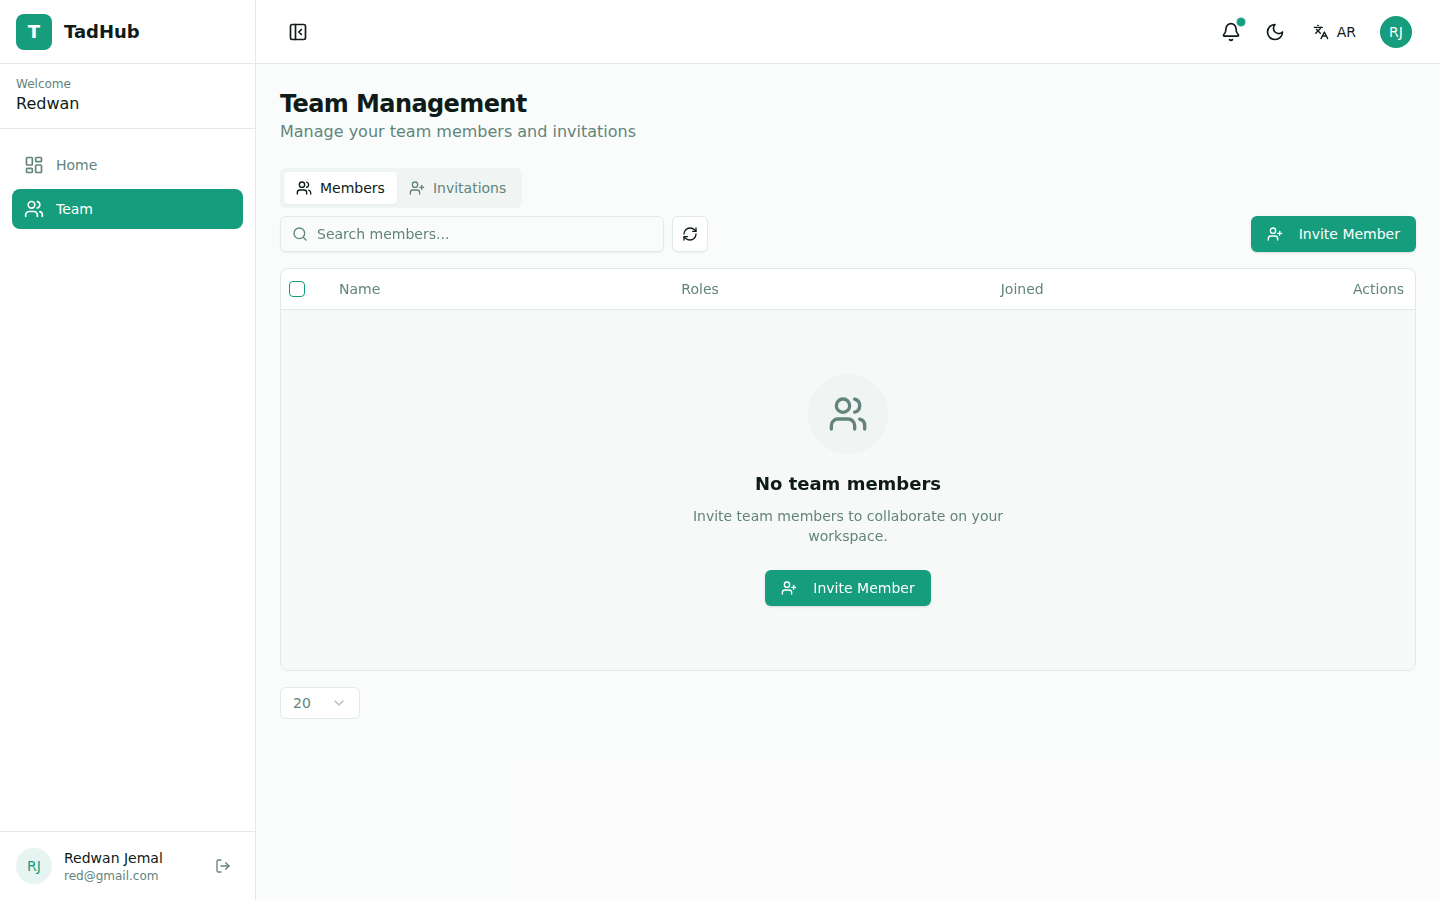
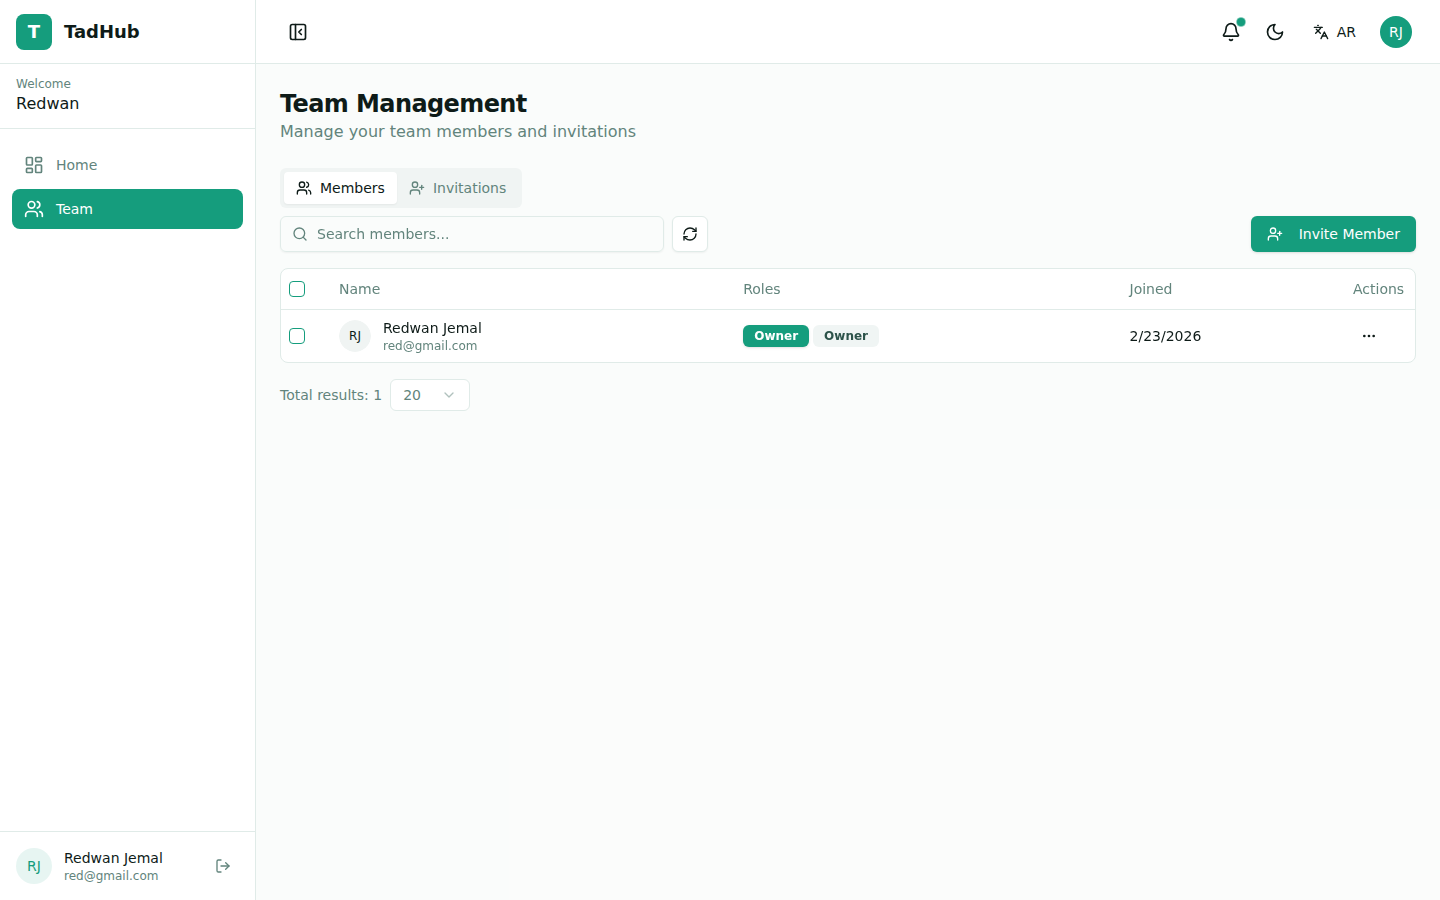
fix: resolve 403 errors and slow API in tenant permission system
- Fix Keycloak ID vs internal user ID mismatch in IsMemberAsync/IsOwnerAsync
  by adding ResolveInternalUserIdAsync to TenantService
- Add IgnoreQueryFilters() to all Role/UserRole queries to bypass global
  tenant filter when explicitly filtering by tenantId
- Add in-memory permission cache (ConcurrentDictionary) to bypass Redis
  NOAUTH timeouts, reducing API response from 13s to ~0.25s cached
- Update Redis configuration with resilient connection options
- Clean up verbose debug logging in auth handlers
- Update e2e screenshot wait logic and refresh screenshots

diff --git a/e2e/take-screenshots.ts b/e2e/take-screenshots.ts
@@ -73,7 +73,12 @@ async function main() {
     console.warn('  Team Management heading did not appear, continuing...');
   }
   // Wait for data to load (skeleton -> actual content)
-  await page.waitForTimeout(5000);
+  try {
+    await page.locator('table tbody td').first().waitFor({ timeout: 15_000 });
+  } catch {
+    console.warn('  table data did not appear, continuing...');
+  }
+  await page.waitForTimeout(2000);
   await page.screenshot({ path: `${SCREENSHOTS_DIR}/tenant/02-team-members.png`, fullPage: false });
   console.log('  done: team members');
 

diff --git a/src/Modules/Authorization/Authorization.Core/Services/AuthorizationModuleService.cs b/src/Modules/Authorization/Authorization.Core/Services/AuthorizationModuleService.cs
@@ -1,3 +1,4 @@
+using System.Collections.Concurrent;
 using System.Linq.Expressions;
 using System.Text.Json;
 using Authorization.Contracts;
@@ -28,6 +29,9 @@ public class AuthorizationModuleService : IAuthorizationModuleService
 
     private const string PermissionsCacheKeyPrefix = "permissions";
     private static readonly TimeSpan PermissionsCacheDuration = TimeSpan.FromMinutes(5);
+
+    // Fast in-memory permission cache (avoids Redis round-trips for hot-path permission checks)
+    private static readonly ConcurrentDictionary<string, (UserPermissionsDto Data, DateTime ExpiresAt)> _permissionCache = new();
 
     private static readonly Dictionary<string, Expression<Func<Permission, object>>> PermissionFilters = new()
     {
@@ -102,6 +106,7 @@ public class AuthorizationModuleService : IAuthorizationModuleService
     public async Task<PagedList<RoleDto>> GetRolesAsync(Guid tenantId, QueryParameters qp, CancellationToken ct = default)
     {
         var query = _db.Set<Role>()
+            .IgnoreQueryFilters()
             .AsNoTracking()
             .Where(x => x.TenantId == tenantId)
             .Include(x => x.Permissions)
@@ -121,6 +126,7 @@ public class AuthorizationModuleService : IAuthorizationModuleService
     public async Task<Result<RoleDto>> GetRoleByIdAsync(Guid tenantId, Guid roleId, CancellationToken ct = default)
     {
         var role = await _db.Set<Role>()
+            .IgnoreQueryFilters()
             .AsNoTracking()
             .Include(x => x.Permissions)
             .ThenInclude(x => x.Permission)
@@ -136,6 +142,7 @@ public class AuthorizationModuleService : IAuthorizationModuleService
     {
         // Check for duplicate name
         var exists = await _db.Set<Role>()
+            .IgnoreQueryFilters()
             .AnyAsync(x => x.TenantId == tenantId && x.Name == request.Name, ct);
 
         if (exists)
@@ -180,6 +187,7 @@ public class AuthorizationModuleService : IAuthorizationModuleService
     public async Task<Result<RoleDto>> UpdateRoleAsync(Guid tenantId, Guid roleId, UpdateRoleRequest request, CancellationToken ct = default)
     {
         var role = await _db.Set<Role>()
+            .IgnoreQueryFilters()
             .Include(x => x.Permissions)
             .FirstOrDefaultAsync(x => x.Id == roleId && x.TenantId == tenantId, ct);
 
@@ -194,6 +202,7 @@ public class AuthorizationModuleService : IAuthorizationModuleService
         {
             // Check for duplicate name
             var exists = await _db.Set<Role>()
+                .IgnoreQueryFilters()
                 .AnyAsync(x => x.TenantId == tenantId && x.Name == request.Name && x.Id != roleId, ct);
             if (exists)
                 return Result<RoleDto>.Conflict($"Role '{request.Name}' already exists");
@@ -235,6 +244,7 @@ public class AuthorizationModuleService : IAuthorizationModuleService
     public async Task<Result<bool>> DeleteRoleAsync(Guid tenantId, Guid roleId, CancellationToken ct = default)
     {
         var role = await _db.Set<Role>()
+            .IgnoreQueryFilters()
             .FirstOrDefaultAsync(x => x.Id == roleId && x.TenantId == tenantId, ct);
 
         if (role is null)
@@ -434,6 +444,7 @@ public class AuthorizationModuleService : IAuthorizationModuleService
     public async Task<IReadOnlyList<RoleDto>> GetUserRolesAsync(Guid tenantId, Guid userId, CancellationToken ct = default)
     {
         var roles = await _db.Set<UserRole>()
+            .IgnoreQueryFilters()
             .AsNoTracking()
             .Where(x => x.TenantId == tenantId && x.UserId == userId)
             .Include(x => x.Role)
@@ -449,6 +460,7 @@ public class AuthorizationModuleService : IAuthorizationModuleService
     {
         // Verify role exists and belongs to tenant
         var role = await _db.Set<Role>()
+            .IgnoreQueryFilters()
             .FirstOrDefaultAsync(x => x.Id == request.RoleId && x.TenantId == tenantId, ct);
 
         if (role is null)
@@ -456,6 +468,7 @@ public class AuthorizationModuleService : IAuthorizationModuleService
 
         // Check if already assigned
         var exists = await _db.Set<UserRole>()
+            .IgnoreQueryFilters()
             .AnyAsync(x => x.TenantId == tenantId && x.UserId == request.UserId && x.RoleId == request.RoleId, ct);
 
         if (exists)
@@ -496,6 +509,7 @@ public class AuthorizationModuleService : IAuthorizationModuleService
     public async Task<Result<bool>> RemoveRoleAsync(Guid tenantId, Guid userId, Guid roleId, CancellationToken ct = default)
     {
         var userRole = await _db.Set<UserRole>()
+            .IgnoreQueryFilters()
             .FirstOrDefaultAsync(x => x.TenantId == tenantId && x.UserId == userId && x.RoleId == roleId, ct);
 
         if (userRole is null)
@@ -520,61 +534,33 @@ public class AuthorizationModuleService : IAuthorizationModuleService
 
     public async Task<UserPermissionsDto> GetUserPermissionsAsync(Guid tenantId, Guid userId, CancellationToken ct = default)
     {
-        _logger.LogInformation(
-            "[AUTH DEBUG] GetUserPermissionsAsync called - TenantId: {TenantId}, UserId: {UserId}",
-            tenantId, userId);
-            
         var cacheKey = $"{PermissionsCacheKeyPrefix}:{tenantId}:{userId}";
 
-        // Try cache first
-        var cached = await _cache.GetAsync<UserPermissionsDto>(cacheKey, ct);
-        if (cached is not null)
-        {
-            _logger.LogInformation("[AUTH DEBUG] Returning cached permissions: {Permissions}", string.Join(", ", cached.Permissions));
-            return cached;
-        }
+        // Fast in-memory cache check (no Redis round-trip)
+        if (_permissionCache.TryGetValue(cacheKey, out var cached) && cached.ExpiresAt > DateTime.UtcNow)
+            return cached.Data;
 
-        // The userId parameter might be either:
-        // 1. The internal user_profiles.id (when called from internal code)
-        // 2. The Keycloak sub claim (when called from authorization handler)
-        // We need to resolve to the internal ID for the user_roles lookup
-        
+        // Resolve Keycloak ID → internal ID
         var internalUserId = userId;
-        
-        // First, check if this userId exists directly in user_roles
-        // NOTE: Using IgnoreQueryFilters() since we're explicitly filtering by tenantId
         var directExists = await _db.Set<UserRole>()
             .IgnoreQueryFilters()
             .AsNoTracking()
             .AnyAsync(x => x.TenantId == tenantId && x.UserId == userId, ct);
-        
-        _logger.LogInformation("[AUTH DEBUG] Direct user_roles lookup for {UserId}: {Exists}", userId, directExists);
-        
+
         if (!directExists)
         {
-            // Try to resolve from Keycloak ID (the userId might be the Keycloak sub)
             var keycloakIdStr = userId.ToString();
-            _logger.LogInformation("[AUTH DEBUG] Looking up UserProfile by KeycloakId: {KeycloakId}", keycloakIdStr);
-            
             var userProfile = await _db.Set<UserProfile>()
                 .AsNoTracking()
                 .FirstOrDefaultAsync(x => x.KeycloakId == keycloakIdStr, ct);
-            
+
             if (userProfile is not null)
-            {
                 internalUserId = userProfile.Id;
-                _logger.LogInformation("[AUTH DEBUG] Found UserProfile - InternalUserId: {InternalUserId}", internalUserId);
-            }
             else
-            {
-                _logger.LogWarning("[AUTH DEBUG] UserProfile NOT FOUND for KeycloakId: {KeycloakId}", keycloakIdStr);
-            }
+                _logger.LogWarning("UserProfile not found for KeycloakId {KeycloakId}", keycloakIdStr);
         }
 
-        // Load from database using the resolved internal user ID
-        // NOTE: Using IgnoreQueryFilters() to bypass global tenant filter since we're explicitly filtering by tenantId
-        _logger.LogInformation("[AUTH DEBUG] Loading user_roles for TenantId: {TenantId}, InternalUserId: {InternalUserId}", tenantId, internalUserId);
-        
+        // Load roles and permissions from database
         var userRoles = await _db.Set<UserRole>()
             .IgnoreQueryFilters()
             .AsNoTracking()
@@ -584,17 +570,12 @@ public class AuthorizationModuleService : IAuthorizationModuleService
             .ThenInclude(x => x.Permission)
             .ToListAsync(ct);
 
-        _logger.LogInformation("[AUTH DEBUG] Found {Count} user_roles", userRoles.Count);
-
         var roles = userRoles.Select(x => x.Role.Name).Distinct().ToList();
         var permissions = userRoles
             .SelectMany(x => x.Role.Permissions)
             .Select(x => x.Permission.Name)
             .Distinct()
             .ToList();
-
-        _logger.LogInformation("[AUTH DEBUG] Resolved roles: [{Roles}], permissions: [{Permissions}]", 
-            string.Join(", ", roles), string.Join(", ", permissions));
 
         var result = new UserPermissionsDto
         {
@@ -604,8 +585,9 @@ public class AuthorizationModuleService : IAuthorizationModuleService
             Roles = roles
         };
 
-        // Cache the result
-        await _cache.SetAsync(cacheKey, result, PermissionsCacheDuration, ct);
+        // Cache in-memory (fast) and Redis (shared across instances)
+        _permissionCache[cacheKey] = (result, DateTime.UtcNow.Add(PermissionsCacheDuration));
+        _ = _cache.SetAsync(cacheKey, result, PermissionsCacheDuration, ct); // fire-and-forget
 
         return result;
     }
@@ -631,6 +613,7 @@ public class AuthorizationModuleService : IAuthorizationModuleService
     public async Task InvalidateUserPermissionsCacheAsync(Guid tenantId, Guid userId, CancellationToken ct = default)
     {
         var cacheKey = $"{PermissionsCacheKeyPrefix}:{tenantId}:{userId}";
+        _permissionCache.TryRemove(cacheKey, out _);
         await _cache.RemoveAsync(cacheKey, ct);
     }
 

diff --git a/src/Modules/Tenancy/Tenancy.Core/Services/TenantService.cs b/src/Modules/Tenancy/Tenancy.Core/Services/TenantService.cs
@@ -2,6 +2,7 @@ using System.Linq.Expressions;
 using System.Security.Cryptography;
 using Identity.Contracts;
 using Identity.Contracts.DTOs;
+using Identity.Core.Entities;
 using MassTransit;
 using Microsoft.EntityFrameworkCore;
 using Microsoft.Extensions.Logging;
@@ -437,8 +438,10 @@ public class TenantService : ITenantService
         var pagedMembers = await query.ToPagedListAsync(qp, ct);
 
         // Load roles for all members in the page in one query
+        // IgnoreQueryFilters: bypass global tenant filter since we're explicitly filtering by tenantId
         var memberUserIds = pagedMembers.Items.Select(m => m.UserId).ToList();
         var userRoles = await _db.Set<UserRole>()
+            .IgnoreQueryFilters()
             .AsNoTracking()
             .Where(ur => ur.TenantId == tenantId && memberUserIds.Contains(ur.UserId))
             .Include(ur => ur.Role)
@@ -464,6 +467,7 @@ public class TenantService : ITenantService
             return Result<TenantMemberDto>.NotFound("Member not found");
 
         var roles = await _db.Set<UserRole>()
+            .IgnoreQueryFilters()
             .AsNoTracking()
             .Where(ur => ur.TenantId == tenantId && ur.UserId == userId)
             .Include(ur => ur.Role)
@@ -531,14 +535,50 @@ public class TenantService : ITenantService
 
     public async Task<bool> IsMemberAsync(Guid tenantId, Guid userId, CancellationToken ct = default)
     {
+        var internalId = await ResolveInternalUserIdAsync(userId, ct);
         return await _db.Set<TenantMembership>()
-            .AnyAsync(x => x.TenantId == tenantId && x.UserId == userId, ct);
+            .AnyAsync(x => x.TenantId == tenantId && x.UserId == internalId, ct);
     }
 
     public async Task<bool> IsOwnerAsync(Guid tenantId, Guid userId, CancellationToken ct = default)
     {
+        var internalId = await ResolveInternalUserIdAsync(userId, ct);
         return await _db.Set<TenantMembership>()
-            .AnyAsync(x => x.TenantId == tenantId && x.UserId == userId && x.IsOwner, ct);
+            .AnyAsync(x => x.TenantId == tenantId && x.UserId == internalId && x.IsOwner, ct);
+    }
+
+    /// <summary>
+    /// Resolves a user ID that may be a Keycloak sub claim to the internal user_profiles ID.
+    /// If the ID already matches a TenantMembership or UserProfile.Id, returns it as-is.
+    /// Otherwise looks up by KeycloakId.
+    /// </summary>
+    private async Task<Guid> ResolveInternalUserIdAsync(Guid userId, CancellationToken ct)
+    {
+        // Check if this userId exists directly in user_profiles
+        var directExists = await _db.Set<UserProfile>()
+            .AsNoTracking()
+            .AnyAsync(x => x.Id == userId, ct);
+
+        if (directExists)
+            return userId;
+
+        // Try to resolve from Keycloak ID
+        var keycloakIdStr = userId.ToString();
+        var userProfile = await _db.Set<UserProfile>()
+            .AsNoTracking()
+            .FirstOrDefaultAsync(x => x.KeycloakId == keycloakIdStr, ct);
+
+        if (userProfile is not null)
+        {
+            _logger.LogDebug(
+                "Resolved Keycloak ID {KeycloakId} to internal user ID {InternalId}",
+                keycloakIdStr, userProfile.Id);
+            return userProfile.Id;
+        }
+
+        // Fallback: return the original (will likely not match anything)
+        _logger.LogWarning("Could not resolve user ID {UserId} to internal user ID", userId);
+        return userId;
     }
 
     #endregion

diff --git a/src/TadHub.Infrastructure/Auth/PermissionAuthorizationHandler.cs b/src/TadHub.Infrastructure/Auth/PermissionAuthorizationHandler.cs
@@ -30,25 +30,14 @@ public class PermissionAuthorizationHandler : AuthorizationHandler<PermissionReq
         AuthorizationHandlerContext context,
         PermissionRequirement requirement)
     {
-        _logger.LogInformation(
-            "[AUTH HANDLER] Checking permission '{Permission}' - IsAuthenticated: {IsAuth}, TenantResolved: {TenantResolved}",
-            requirement.Permission, _currentUser.IsAuthenticated, _tenantContext.IsResolved);
-            
         if (!_currentUser.IsAuthenticated)
-        {
-            _logger.LogWarning("[AUTH HANDLER] Permission check failed: user not authenticated");
             return;
-        }
 
         if (!_tenantContext.IsResolved)
         {
-            _logger.LogWarning("[AUTH HANDLER] Permission check failed: no tenant context. TenantId would be: {TenantId}", _tenantContext.TenantId);
+            _logger.LogWarning("Permission check failed: no tenant context for {Permission}", requirement.Permission);
             return;
         }
-
-        _logger.LogInformation(
-            "[AUTH HANDLER] Calling HasPermissionAsync - TenantId: {TenantId}, UserId: {UserId}, Permission: {Permission}",
-            _tenantContext.TenantId, _currentUser.UserId, requirement.Permission);
 
         var hasPermission = await _permissionChecker.HasPermissionAsync(
             _tenantContext.TenantId,
@@ -56,18 +45,10 @@ public class PermissionAuthorizationHandler : AuthorizationHandler<PermissionReq
             requirement.Permission);
 
         if (hasPermission)
-        {
-            _logger.LogInformation(
-                "[AUTH HANDLER] Permission check PASSED: user {UserId} has {Permission} in tenant {TenantId}",
-                _currentUser.UserId, requirement.Permission, _tenantContext.TenantId);
             context.Succeed(requirement);
-        }
         else
-        {
-            _logger.LogWarning(
-                "[AUTH HANDLER] Permission check FAILED: user {UserId} lacks {Permission} in tenant {TenantId}",
+            _logger.LogDebug("User {UserId} lacks {Permission} in tenant {TenantId}",
                 _currentUser.UserId, requirement.Permission, _tenantContext.TenantId);
-        }
     }
 }
 

diff --git a/src/TadHub.Infrastructure/Caching/RedisConfiguration.cs b/src/TadHub.Infrastructure/Caching/RedisConfiguration.cs
@@ -21,21 +21,23 @@ public static class RedisConfiguration
         var connectionString = configuration.GetConnectionString("Redis")
             ?? "localhost:6379";
 
+        // Ensure the connection string has AbortOnConnectFail=false
+        var fullConnectionString = connectionString.Contains("abortConnect")
+            ? connectionString
+            : connectionString + ",abortConnect=false,connectRetry=5,connectTimeout=10000";
+
         // Register IConnectionMultiplexer as singleton for direct Redis access
         services.AddSingleton<IConnectionMultiplexer>(sp =>
         {
-            var options = ConfigurationOptions.Parse(connectionString);
-            options.AbortOnConnectFail = false;
-            options.ConnectRetry = 3;
-            options.ConnectTimeout = 5000;
+            var options = ConfigurationOptions.Parse(fullConnectionString);
             return ConnectionMultiplexer.Connect(options);
         });
 
         // Register IDistributedCache for standard caching operations
         services.AddStackExchangeRedisCache(options =>
         {
-            options.Configuration = connectionString;
-            options.InstanceName = "saaskit:";
+            options.Configuration = fullConnectionString;
+            options.InstanceName = "tadhub:";
         });
 
         // Register our custom cache service

diff --git a/src/TadHub.Infrastructure/Caching/RedisCacheService.cs b/src/TadHub.Infrastructure/Caching/RedisCacheService.cs
@@ -122,7 +122,7 @@ public sealed class RedisCacheService : IRedisCacheService
         try
         {
             var server = _redis.GetServer(_redis.GetEndPoints().First());
-            var keys = server.Keys(pattern: $"saaskit:{fullPattern}");
+            var keys = server.Keys(pattern: $"tadhub:{fullPattern}");
 
             var db = _redis.GetDatabase();
             foreach (var key in keys)
